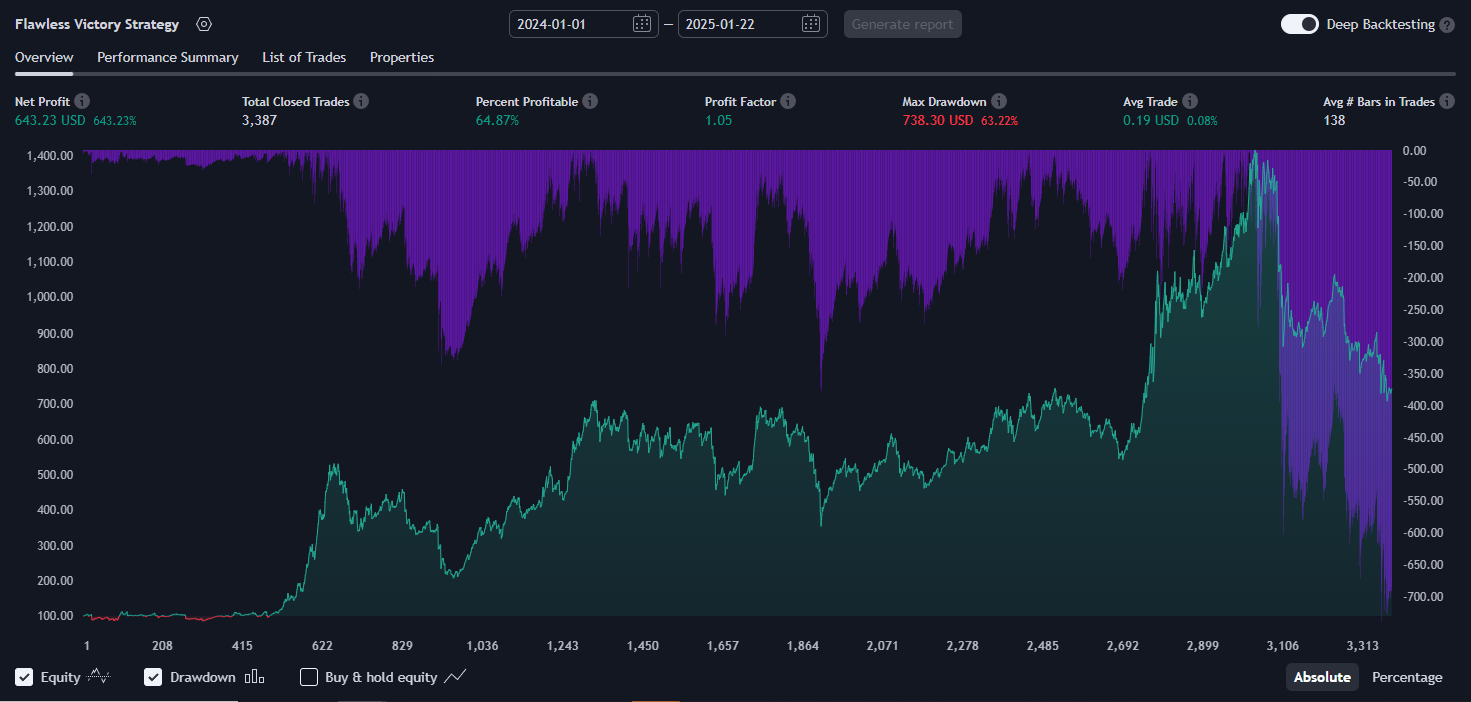
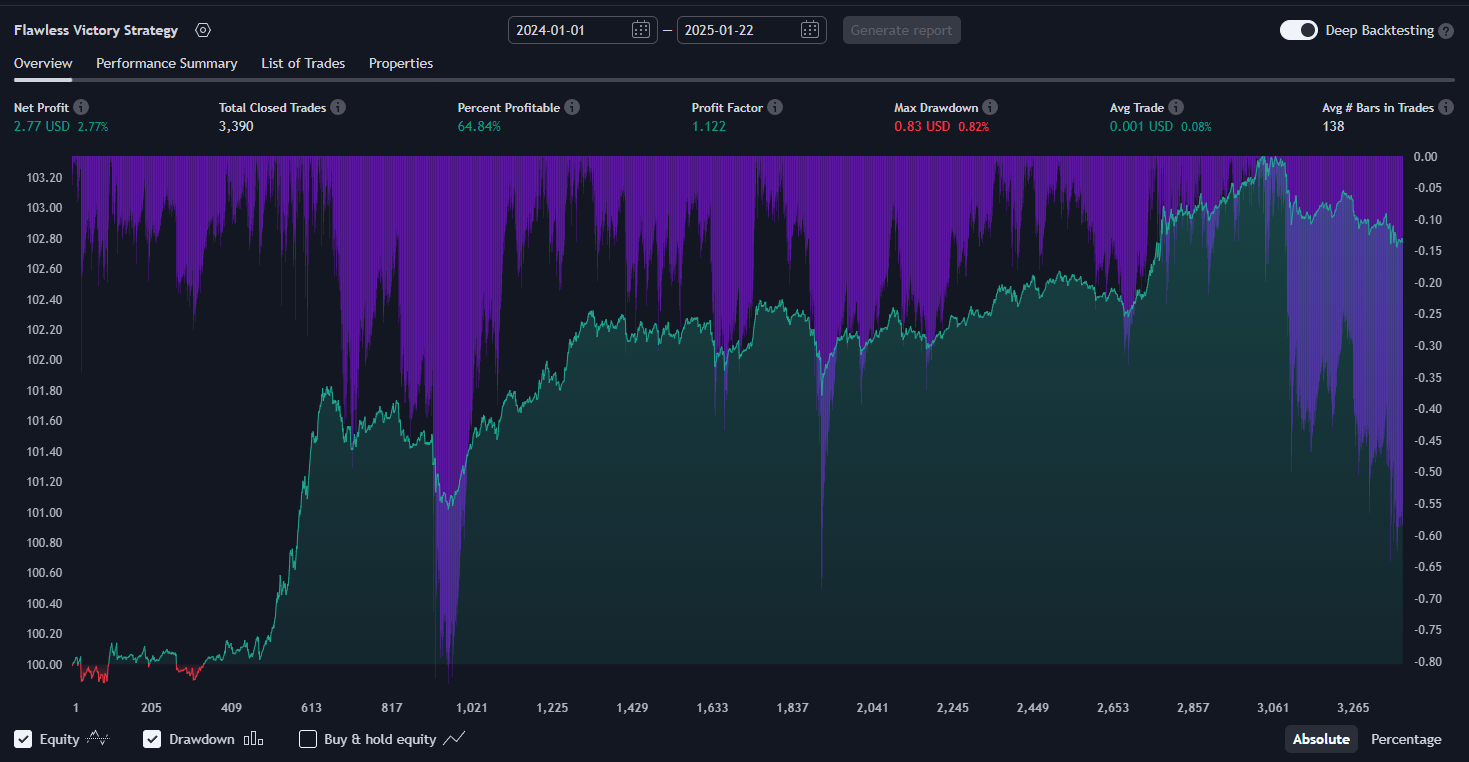
update

diff --git a/index.html b/index.html
@@ -648,9 +648,9 @@
                     <p><strong>Indicator(s):</strong> RSI + MFI + Bollinger Bands + SMA + Standard Deviation + Machine Learning</p>
                     <p><strong>Type of strategy:</strong> Mean Reversion and Momentum Strategy</p>
                     <p><strong>Trading Time Frame:</strong> 1M</p>
-                    <p><strong>Number of Trades:</strong> 3387 (1 year)</p>
+                    <p><strong>Number of Trades:</strong> 3390 (1 year)</p>
                     <p><strong>TP/SL:</strong> Take Profit (TP) and Stop Loss (SL) are defined in versions 2 and 3 as percentages of the entry price, managed using strategy.exit.</p>
-                    <p><strong>Strategy success (%):</strong> 64.87%</p>
+                    <p><strong>Strategy success (%):</strong> 64.84%</p>
                     <p><strong>Inspired by:</strong> Trebor_Namor</p>
                 </div>
 
